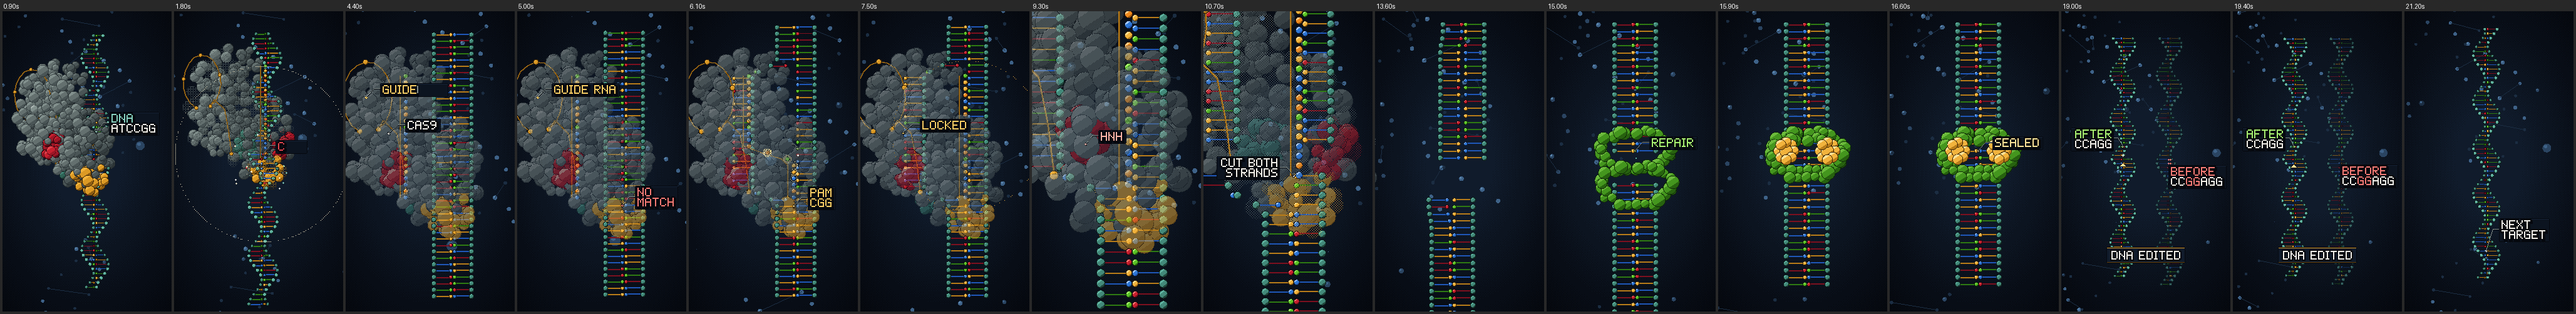
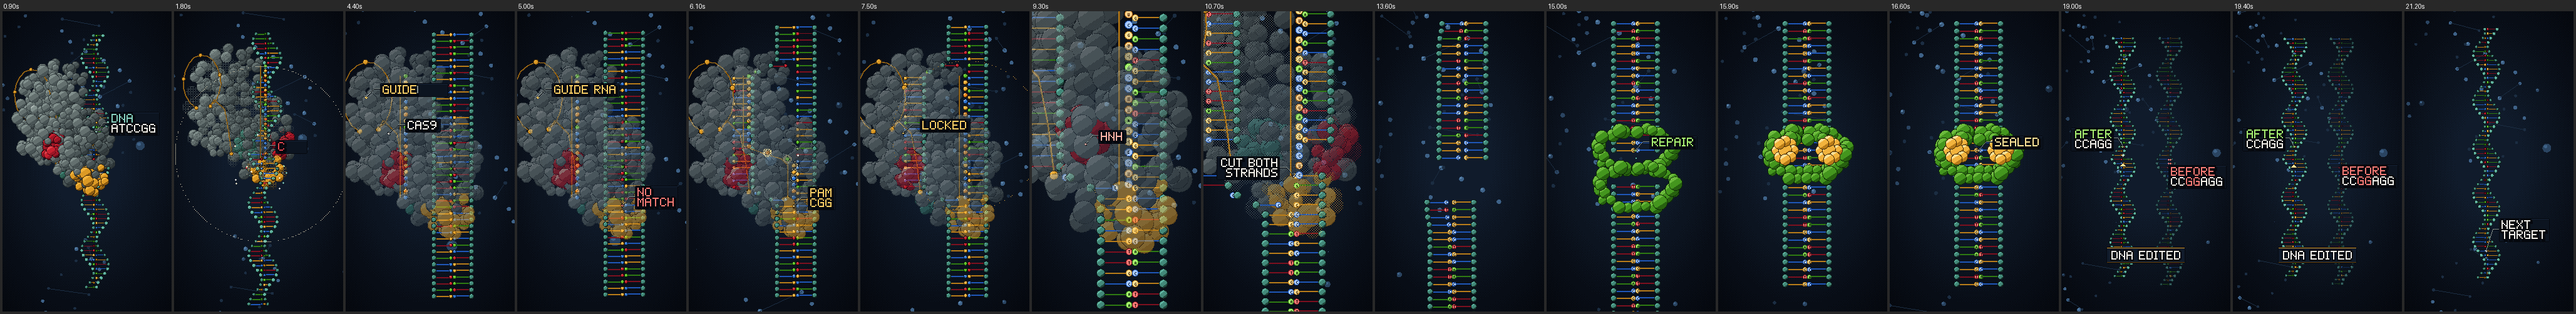
CRISPR film: stamp A/G/C/T on the bases when the camera is close enough
Each base bead becomes a flat light tile with a coloured rim and its letter
stamped on it, so the code can be read straight off the molecule.

- DNA shows A, G, C, T; the guide RNA shows A, G, C, U
- only where a letter is big enough to read (bead radius >= 3.9 px): the cut,
  the slow motion, the repair and the hook's rush into the break; the search
  and the wide before/after keep solid beads, where a 3x5 glyph would be mush
  (the before/after carries its sequence in the captions instead)
- the repair camera moves from 3.3 to 3.5 px/A so the letters read there too

Gate on the rendered film: fast-motion 0.337, no empty frames, no blue-violet;
loop seam 0.196, still smaller than an ordinary frame step.

Claude-Session: https://claude.ai/code/session_01XKhTxmVPXjJrHoFF2Hebsf

diff --git a/crispr-cas9-animation/engine/dna.py b/crispr-cas9-animation/engine/dna.py
@@ -123,7 +123,7 @@ class Cam:
 
 
 # ---------------------------------------------------------------- drawing
-def _disc(buf, cx, cy, r, ramp, lit=0.45, outline=True, glow=0.0):
+def _disc(buf, cx, cy, r, ramp, lit=0.45, outline=True, glow=0.0, flat=False):
     """One 8-bit bead: a flat filled circle, a hard highlight arc at the top left, a darker arc at the bottom right
     and a 1-px outline. `lit` (0..1) picks how bright the body is (used for depth in the helix)."""
     r = float(r)
@@ -150,6 +150,11 @@ def _disc(buf, cx, cy, r, ramp, lit=0.45, outline=True, glow=0.0):
         return
     n = len(ramp)
     body = min(n - 2, max(1, int(round(1 + lit * (n - 3)))))        # which ramp step the body uses
+    if flat:                                                         # a flat, light tile, ready for a letter
+        sub[inside] = ramp[n - 1]
+        if outline:
+            sub[inside & (d > r - 1.0)] = ramp[1]                    # a coloured rim, so the base keeps its hue
+        return
     sub[inside] = ramp[body]
     if r >= 1.6:                                                     # the lit shoulder and the shaded one
         k = -(dx * 0.6 + dy * 0.8) / max(r, 1e-6)
@@ -214,11 +219,12 @@ def draw(buf, cam, shape, t, glow_pairs=None, dim=0.0, letters=True, cut_flash=0
             letter = seq_at(i, strand)
             ramp = P.BASES[letter]
             _stick(buf, sx, sy, bsx, bsy, 1 if s < 2.2 else 2, ramp[1])
+            lettered = letters and base_r >= 3.9       # only where a letter is big enough to read
             _disc(buf, bsx, bsy, base_r * (0.85 + 0.15 * (dep + 1) / 2), ramp, 0.35 + 0.3 * (dep + 1) / 2,
-                  glow=g * 0.9)
-            if letters and s > 5.5 and base_r > 2.6:
+                  glow=g * 0.9, flat=lettered)
+            if lettered:                                         # the base's letter, stamped on its bead
                 from . import pixfont as PF
-                PF.draw_text(buf, letter, bsx, bsy, ramp[3], font='3x5', anchor='mm', outline=ramp[0])
+                PF.draw_text(buf, letter, bsx, bsy, ramp[0], font='3x5', anchor='mm', outline=None)
     if dim > 0:
         gfx.blend(buf, gfx.Mask(0, 0, np.ones((H, W), bool)), P.NAVY[2], dim)
 

diff --git a/crispr-cas9-animation/engine/cas9.py b/crispr-cas9-animation/engine/cas9.py
@@ -238,7 +238,8 @@ def draw_grna(buf, cam, pose, paired, t, alpha=1.0):
         if j < paired:
             tt = t - T.pair_time(j)
             glow = max(0.0, 1.0 - tt / 0.4) if tt >= 0 else 0.0
-        D._disc(buf, sx, sy, max(0.8, D.BASE_R * cam.s * 1.15), ramp, 0.5, glow=glow)
-        if cam.s > 5.5 and D.BASE_R * cam.s > 2.6:
+        lettered = D.BASE_R * cam.s >= 3.9
+        D._disc(buf, sx, sy, max(0.8, D.BASE_R * cam.s * 1.15), ramp, 0.5, glow=glow, flat=lettered)
+        if lettered:                                             # the guide RNA's letters, same as the DNA's
             from . import pixfont as PF
-            PF.draw_text(buf, letter, sx, sy, ramp[3], font='3x5', anchor='mm', outline=ramp[0])
+            PF.draw_text(buf, letter, sx, sy, ramp[0], font='3x5', anchor='mm', outline=None)

diff --git a/crispr-cas9-animation/engine/scenes.py b/crispr-cas9-animation/engine/scenes.py
@@ -20,7 +20,7 @@ S_HOOK = 2.15
 S_CUTIN = 6.4
 S_SEARCH = 3.0
 S_SITE = 5.0
-S_REPAIR = 3.3
+S_REPAIR = 3.5
 S_RESULT = 1.95
 
 

diff --git a/crispr-cas9-animation/docs/交付说明.md b/crispr-cas9-animation/docs/交付说明.md
@@ -47,6 +47,7 @@
   - 开头 `DNA · ATCCGG`：镜头正对着的那 6 个碱基，直接取自序列。
   - 找到位点时 `PAM · CGG`：真实读出的 PAM 三个碱基。
   - 结尾对照 `BEFORE · CC**GG**AGG`（要被切掉的两个碱基标红）对 `AFTER · CCAGG`，一眼看出少了哪两个——这就是「DNA 改变」的具体样子。
+- **碱基字母**（客户再追加：「di ujung dna boleh kasih huruf dari dna agct」）：镜头够近时，每个碱基珠变成一块扁平的浅色方砖，带同色深边，上面盖一个 3×5 的字母（DNA 是 A/G/C/T，向导 RNA 是 A/G/C/U）。阈值按珠子半径定（≥3.9 px）：切割（5.0 px/Å）、慢动作、修复（4.0 px/Å）和钩子冲进切口时有字母；搜索段（3.45 px/Å）和片尾前后对比（2.24 px/Å）保持实心珠子——那个尺寸的字母只会糊成一团，前后对比由标注里的序列负责。修复段相机从 3.3 微调到 3.5 px/Å，就是为了让字母在那一段也读得出来。
 - 全部标注（按时间）：DNA·ATCCGG、CUT!、CAS9、GUIDE RNA、NO MATCH、PAM·CGG、MATCHING、LOCKED、HNH、RUVC、CUT BOTH STRANDS、CAS9 LEAVES、REPAIR、LOST 2 PAIRS、SEALED、BEFORE·CCGGAGG、AFTER·CCAGG、NEXT TARGET，外加 DNA EDITED 横幅。
 - 镜头表 lint 曾对第 1 镜报黄（开场 3 秒里出现 4 个词），已把开场的 CAS9 标注删掉（它在第 2 镜有足够时间出现），现在全表绿灯。
 - 加标注后重跑门禁：快速运动帧占比 0.301，空画面 0 秒，蓝紫 0.000，**固定页框 0.000**（标注跟着物体动，没有被判成常驻页框）；循环接缝 0.196，仍小于普通相邻帧。

diff --git a/crispr-cas9-animation/README.md b/crispr-cas9-animation/README.md
@@ -30,7 +30,10 @@ them → the DNA is two base pairs shorter → on to the next target: the last f
   little double helices, and a soup of nucleosome beads, free proteins and specks. Every drift is a whole number of
   laps per loop.
 - **The DNA** is one molecule the whole film: 62 base pairs of real sequence that repeats along the strand, each
-  base a coloured bead (A green, T red, G gold, C blue) hanging from a teal backbone. It winds as a double helix,
+  base a coloured bead (A green, T red, G gold, C blue) hanging from a teal backbone. Once the camera is close
+  enough for a letter to be readable, each bead turns into a flat tile with a coloured rim and its letter stamped
+  on it — A, G, C, T on the DNA and A, G, C, U on the guide RNA — so you can read the code off the molecule in the
+  cut and repair scenes; further out the beads stay solid, because a letter that small is just mush. It winds as a double helix,
   straightens into a ladder for the search, opens into an R-loop where the guide RNA pairs, is cut, and winds back
   up two base pairs shorter.
 - **Captions that track what they name.** Nineteen small captions, each a dot pinned on the object, a thin elbow
